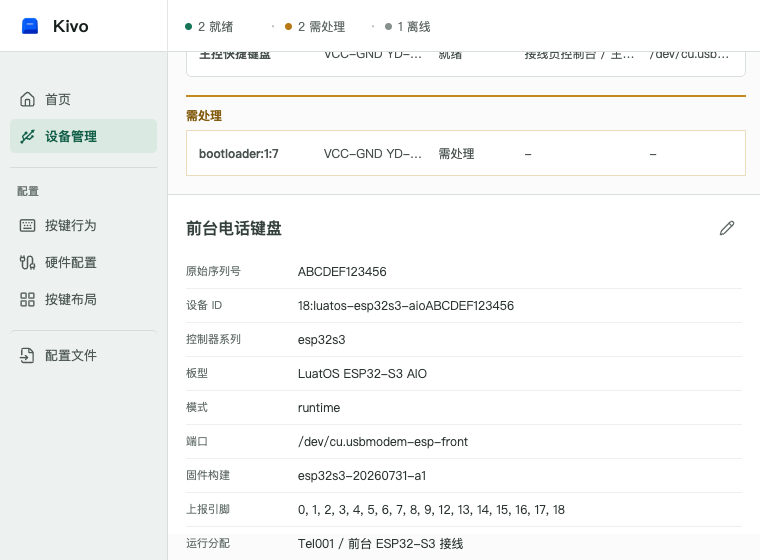
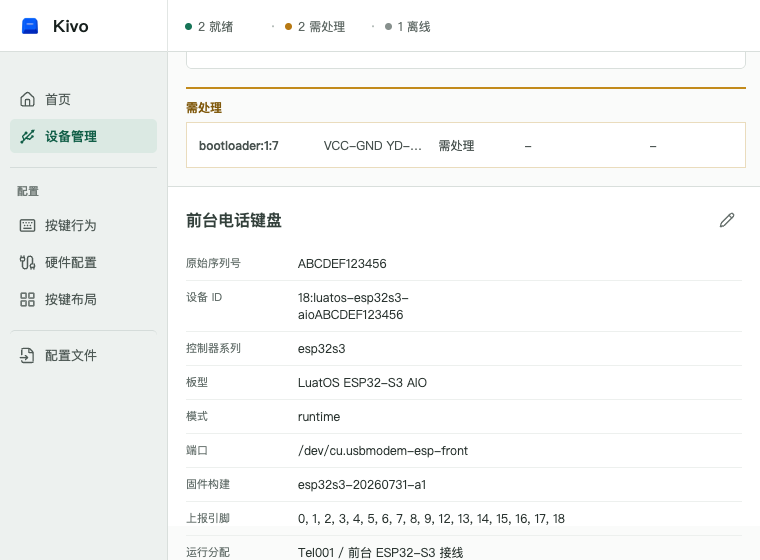
fix: prove mobile device id wrapping

diff --git a/src/App.css b/src/App.css
@@ -191,6 +191,7 @@ select:focus, input:focus, textarea:focus, button:focus-visible { border-color: 
 .device-rename input { min-width: 0; height: 30px; padding: 0 7px; }
 .device-detail-field { display: grid; grid-template-columns: 104px minmax(0, 1fr); gap: 8px; padding: 8px 0; border-bottom: 1px solid #edf0ee; color: #65706c; font-size: 11px; }
 .device-detail-field output { overflow-wrap: anywhere; color: #29332f; font-size: 12px; }
+.device-detail-field .device-id-value { max-width: 28ch; user-select: text; }
 .device-assignment { display: grid; grid-template-columns: minmax(0, 1fr) minmax(0, 1fr); gap: 8px; padding: 12px 0; border-bottom: 1px solid #edf0ee; }
 .device-assignment label { min-width: 0; display: grid; gap: 5px; color: #65706c; font-size: 11px; }
 .device-assignment select { min-width: 0; width: 100%; height: 32px; padding: 0 7px; }

diff --git a/src/DeviceManagement.tsx b/src/DeviceManagement.tsx
@@ -77,11 +77,11 @@ function status(device: DeviceStatus, language: Language) {
     `devices.status.${keys[primaryDeviceLabel(device)]}` as never,
   );
 }
-function Detail({ label, value }: { label: string; value: string }) {
+function Detail({ label, value, valueClassName }: { label: string; value: string; valueClassName?: string }) {
   return (
     <div className="device-detail-field">
       <span>{label}</span>
-      <output>{value}</output>
+      <output className={valueClassName}>{value}</output>
     </div>
   );
 }
@@ -529,6 +529,7 @@ export function DeviceManagement({
             <Detail
               label={t(language, "devices.id")}
               value={selectedDevice.deviceId}
+              valueClassName="device-id-value"
             />
             <Detail
               label={t(language, "devices.controller")}

diff --git a/src/DeviceManagement.test.tsx b/src/DeviceManagement.test.tsx
@@ -112,6 +112,12 @@ test("never renders metrics owned by another Device", () => {
   expect(screen.queryByText("2 / 8")).toBeNull();
 });
 
+test("marks the selected Device ID for constrained wrapping", () => {
+  renderManagement();
+
+  expect(screen.getByText("rp-a", { selector: "output" })).toHaveClass("device-id-value");
+});
+
 test("composes visible Board Profile search with non-All filters", async () => {
   const user = userEvent.setup();
   renderManagement();

diff --git a/docs/verification/2026-07-31-device-management-ui.md b/docs/verification/2026-07-31-device-management-ui.md
@@ -59,3 +59,11 @@ Fresh automated verification after the fixes:
 - `rtk npm test`: 114 passed across 9 files.
 - `rtk npm run build`: TypeScript and Vite passed; 1,800 modules transformed.
 - `rtk git diff --check`: passed.
+
+## Mobile Device ID Wrap Follow-up (2026-08-01)
+
+The selected Device ID now has a dedicated `28ch` maximum width while retaining `overflow-wrap:anywhere` and selectable text. At 760x560, Playwright measured the ID output as `201.59375x34px` with two text-line rectangles. Document and body widths both remained `760/760`.
+
+The refreshed `docs/verification/screenshots/device-management-760x560-detail-id-assignment.png` visibly shows the canonical ID wrapping across two lines above the assignment controls, with no overlap or page-level horizontal overflow.
+
+Final checks after this follow-up: `rtk npm test` passed 115 tests across 9 files, `rtk cargo test --manifest-path src-tauri/Cargo.toml` passed 107 tests across 3 suites, and `rtk npm run build` passed with 1,800 modules transformed.
